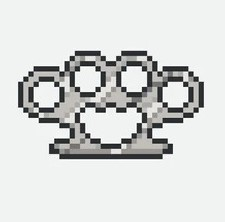
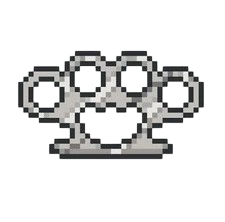
Fix: Graphic fix for images

diff --git a/database.js b/database.js
@@ -109,7 +109,7 @@ const database={
             nome:"Cavalier Pristol",
             hp: 100,
             maxHp: 100,
-            arma: "lancia",
+            arma: "ascia",
             armatura:"armaturaMaglia",
             sprite: "assets/base_knight.png"
         },

diff --git a/style.css b/style.css
@@ -217,6 +217,7 @@ li{
     padding: 8px;
     image-rendering: pixelated; 
     transition: transform 0.2s, border-color 0.2s;
+
 }
 .item-container img:hover {
     transform: scale(1.1);